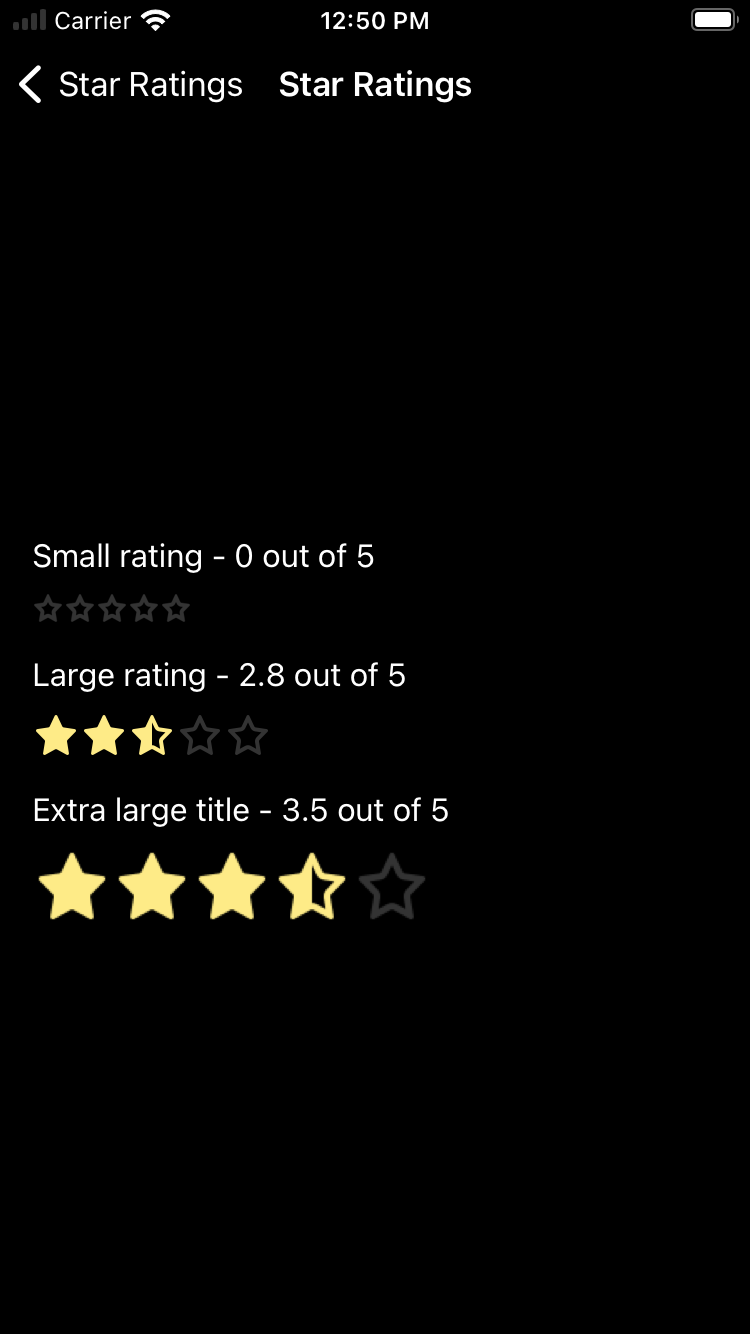
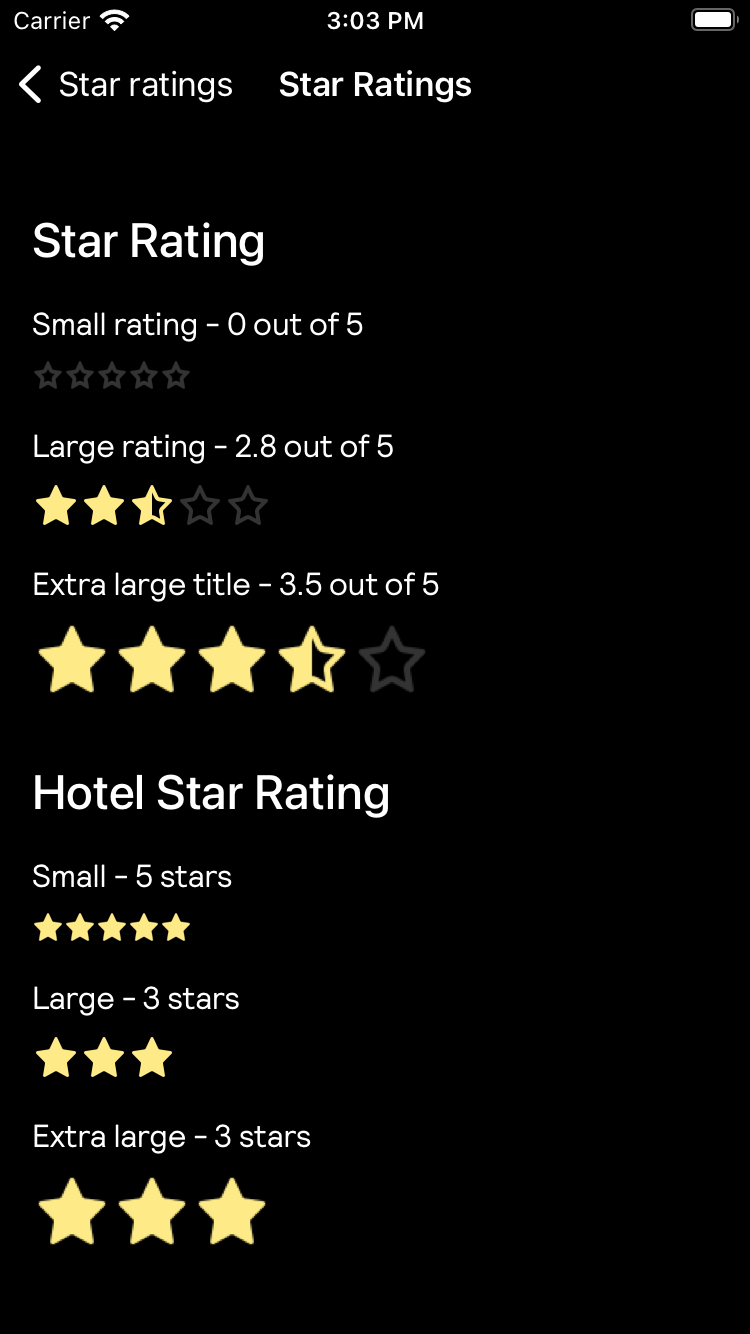
BPKHotelStarRating UIKit

diff --git a/Backpack/StarRating/Classes/BPKHotelStarRating.swift b/Backpack/StarRating/Classes/BPKHotelStarRating.swift
@@ -1,0 +1,91 @@
+//
+/*
+ * Backpack - Skyscanner's Design System
+ *
+ * Copyright © 2023 Skyscanner Ltd. All rights reserved.
+ *
+ * Licensed under the Apache License, Version 2.0 (the "License");
+ * you may not use this file except in compliance with the License.
+ * You may obtain a copy of the License at
+ *
+ *   http://www.apache.org/licenses/LICENSE-2.0
+ * Unless required by applicable law or agreed to in writing, software
+ * distributed under the License is distributed on an "AS IS" BASIS,
+ * WITHOUT WARRANTIES OR CONDITIONS OF ANY KIND, either express or implied.
+ * See the License for the specific language governing permissions and
+ * limitations under the License.
+ */
+
+import Foundation
+import UIKit
+
+public class BPKHotelStarRating: UIView {
+    
+    public var rating: Int {
+        didSet {
+            guard rating != oldValue else { return }
+            updateLookAndFeel()
+        }
+    }
+    
+    public var size: BPKStarSize {
+        didSet {
+            guard size != oldValue else { return }
+            updateLookAndFeel()
+        }
+    }
+    
+    private var stackView: UIStackView = {
+        let view = UIStackView(frame: .zero)
+        view.translatesAutoresizingMaskIntoConstraints = false
+        view.axis = .horizontal
+        
+        return view
+    }()
+    
+    public init(size: BPKStarSize = .small, rating: Int = 0) {
+        self.size = size
+        self.rating = rating
+        super.init(frame: .zero)
+        setup()
+    }
+    
+    public override init(frame: CGRect) {
+        self.size = .small
+        self.rating = 0
+        super.init(frame: frame)
+        setup()
+    }
+    
+    @available(*, unavailable)
+    required init?(coder: NSCoder) {
+        self.size = .small
+        self.rating = 0
+        super.init(coder: coder)
+        setup()
+    }
+    
+    private func setup() {
+        addSubview(stackView)
+        updateLookAndFeel()
+        
+        NSLayoutConstraint.activate([
+            stackView.topAnchor.constraint(equalTo: topAnchor),
+            stackView.bottomAnchor.constraint(equalTo: bottomAnchor),
+            stackView.leadingAnchor.constraint(equalTo: leadingAnchor),
+            stackView.trailingAnchor.constraint(equalTo: trailingAnchor)
+        ])
+    }
+    
+    private func updateLookAndFeel() {
+        stackView.arrangedSubviews.forEach { $0.removeFromSuperview() }
+        
+        guard rating > 0 else { return }
+        
+        for _ in Range(1...rating) {
+            let star = BPKStar(size: size)
+            star.state = .full
+            stackView.addArrangedSubview(star)
+        }
+    }
+}

diff --git a/Backpack/Tests/SnapshotTests/BPKHotelStarRatingSnapshotTests.swift b/Backpack/Tests/SnapshotTests/BPKHotelStarRatingSnapshotTests.swift
@@ -1,0 +1,45 @@
+//
+/*
+ * Backpack - Skyscanner's Design System
+ *
+ * Copyright © 2023 Skyscanner Ltd. All rights reserved.
+ *
+ * Licensed under the Apache License, Version 2.0 (the "License");
+ * you may not use this file except in compliance with the License.
+ * You may obtain a copy of the License at
+ *
+ *   http://www.apache.org/licenses/LICENSE-2.0
+ *
+ * Unless required by applicable law or agreed to in writing, software
+ * distributed under the License is distributed on an "AS IS" BASIS,
+ * WITHOUT WARRANTIES OR CONDITIONS OF ANY KIND, either express or implied.
+ * See the License for the specific language governing permissions and
+ * limitations under the License.
+ */
+
+import XCTest
+import Backpack
+import SnapshotTesting
+
+class BPKHotelStarRatingSnapshotTests: XCTestCase {
+    
+    private let sizes: [BPKStarSize] = [.small, .large, .xLarge]
+    private let ratings = Array(1...5)
+    
+    override func setUp() {
+        super.setUp()
+        isRecording = true
+    }
+    
+    func testHotelStarRatingSizesAndRatings() {
+        assertSnapshot(createView(sizes: sizes, ratings: ratings))
+    }
+    
+    private func createView(sizes: [BPKStarSize], ratings: [Int]) -> UIView {
+        viewsInStack(withStyles: sizes, axis: .horizontal) { size in
+            viewsInStack(withStyles: ratings) { rating in
+                BPKHotelStarRating(size: size, rating: rating)
+            }
+        }
+    }
+}

diff --git a/Example/Backpack/UIKit/Components/Star rating/StarRatingsDocViewController.swift b/Example/Backpack/UIKit/Components/Star rating/StarRatingsDocViewController.swift
@@ -27,6 +27,10 @@ class StarRatingsDocViewController: UIViewController {
     @IBOutlet weak var largeRating: BPKStarRating!
     @IBOutlet weak var extraLargeRatingTitle: BPKLabel!
     @IBOutlet weak var extraLargeRating: BPKStarRating!
+    
+    @IBOutlet weak var smallHotelStarRating: BPKHotelStarRating!
+    @IBOutlet weak var largeHotelStarRating: BPKHotelStarRating!
+    @IBOutlet weak var extraLargeHotelStarRating: BPKHotelStarRating!
 
     override func viewDidLoad() {
         // Setup titles
@@ -43,5 +47,13 @@ class StarRatingsDocViewController: UIViewController {
         smallRating.size = .small
         largeRating.size = .large
         extraLargeRating.size = .xLarge
+        
+        // Setup hotel star rating
+        smallHotelStarRating.rating = 5
+        smallHotelStarRating.size = .small
+        largeHotelStarRating.rating = 3
+        largeHotelStarRating.size = .large
+        extraLargeHotelStarRating.rating = 3
+        extraLargeHotelStarRating.size = .xLarge
     }
 }

diff --git a/Backpack/StarRating/README.md b/Backpack/StarRating/README.md
@@ -15,6 +15,8 @@
 `BPKStarRating` contains the Backpack Star rating component which is a view that's rendering star shaped items filled with color to indicate rating from 0.0 to 5.0. It supports three sizes considering the available `BPKIcon` sizes.
 By default `userInteractionEnabled` is set to `NO` but we can change this value to `YES` to allow the users to change the rating value by tapping the component
 
+`BPKStarRating` is a component that's rendering filled satr shaped items. The number of stars depends on the value of the rating attribute. It also supports three sizes, but it doesn't support changing rating by tapping.
+
 ### Rating Rounding
 
 Use `StarRatingRounding` to adjust how rating values fill in the stars
@@ -108,6 +110,26 @@ let starRating = BPKStarRating(size: .xLarge)
 starRating.rounding = .up
 starRating.rating = 2.5
 // Position button with autolayout or other method
+```
+
+### Hotel Star Rating
+Small stars
+
+```swift
+import Backpack
+
+let hotelStarRating = BPKHotelStarRating(size: .small, rating: 5)
+```
+
+Large stars and Extra Large stars
+
+```swift
+import Backpack
+
+let hotelStarRating = BPKHotelStarRating(size: .large, rating: 5)
+// Size and rating can be changed.
+hotelStarRating.size = .xLarge
+hotelStarRating.rating = 3
 ```
 
 ### Appearance attributes
